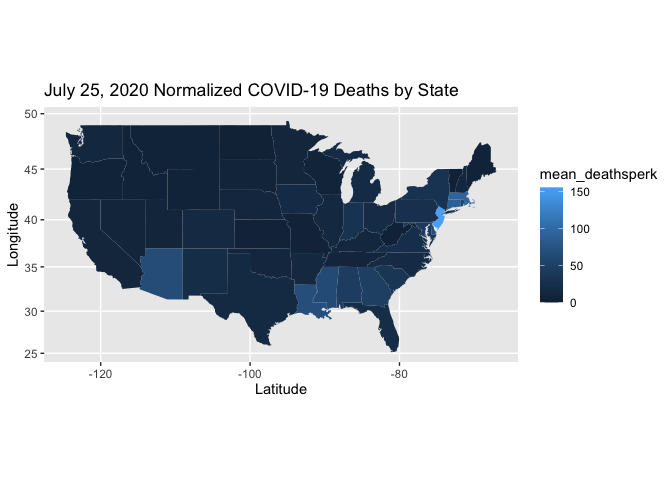
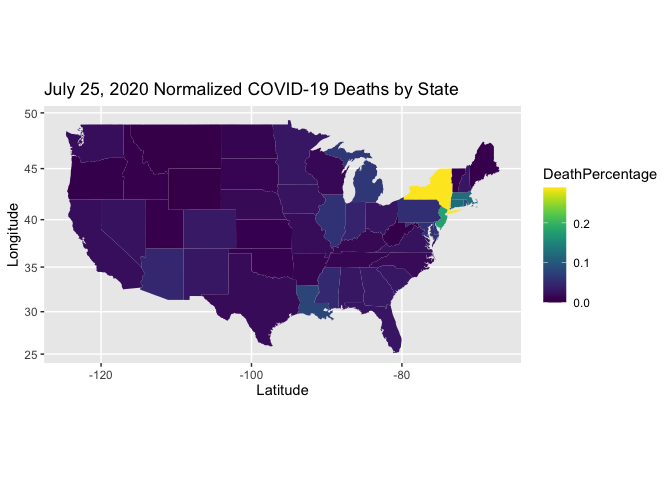
Updated data behind maps

diff --git a/challenges/c06-covid19-assignment.md b/challenges/c06-covid19-assignment.md
@@ -356,7 +356,8 @@ df_data <-
     cases,
     deaths,
     population = `Estimate!!Total`
-  )
+  ) %>%
+  mutate(population = as.double(population))
 df_data
 ```
 
@@ -397,7 +398,6 @@ the columns `cases_perk` and `deaths_perk`.
 df_normalized <-
   df_data %>%
   mutate(
-    population = as.double(population),
     cases_perk = cases/(population/100000),
     deaths_perk = deaths/(population/100000))
 df_normalized
@@ -623,18 +623,20 @@ Questions:
   - Which states have similar curves to one another over time?
   - How do the means and standard deviations vary by state? Can I show
     state means on a map, by color? And show the map for a few different
-    dates to show changes over time?
+    dates to show changes over time? Like maybe 3 months? (Take total
+    number of cases in state, divide by state population.)
 
 <!-- end list -->
 
 ``` r
-# Determine mean for each state on a given day
+# Determine % of population that comes down with COVID or dies on 7/25/20
 df_states_2020_07_25 <-
-  df_normalized %>%
+  df_data %>%
   filter(date == "2020-07-25") %>%
   mutate(region = tolower(state)) %>%
   group_by(region) %>%
-  summarize(mean_casesperk = mean(cases_perk, na.rm = TRUE), mean_deathsperk = mean(deaths_perk, na.rm = TRUE))
+  summarize(cases = sum(cases, na.rm = TRUE), deaths = sum(deaths, na.rm = TRUE), pop = sum(population, na.rm = TRUE)) %>%
+  mutate(CasePercentage = cases/pop*100, DeathPercentage = deaths/pop*100)
 ```
 
     ## `summarise()` ungrouping output (override with `.groups` argument)
@@ -643,19 +645,19 @@ df_states_2020_07_25 <-
 df_states_2020_07_25
 ```
 
-    ## # A tibble: 55 x 3
-    ##    region               mean_casesperk mean_deathsperk
-    ##    <chr>                         <dbl>           <dbl>
-    ##  1 alabama                       1834.          44.3  
-    ##  2 alaska                         608.           0.650
-    ##  3 arizona                       2312.          65.9  
-    ##  4 arkansas                      1207.          14.5  
-    ##  5 california                     819.          10.1  
-    ##  6 colorado                       659.          16.9  
-    ##  7 connecticut                   1015.          89.7  
-    ##  8 delaware                      1617.          65.9  
-    ##  9 district of columbia          1712.          84.9  
-    ## 10 florida                       1729.          21.9  
+    ## # A tibble: 55 x 6
+    ##    region                cases deaths      pop CasePercentage DeathPercentage
+    ##    <chr>                 <dbl>  <dbl>    <dbl>          <dbl>           <dbl>
+    ##  1 alabama               78130   1456  4864680          1.61          0.0299 
+    ##  2 alaska                 2866     18   734634          0.390         0.00245
+    ##  3 arizona              160055   3288  6946685          2.30          0.0473 
+    ##  4 arkansas              37981    399  2990671          1.27          0.0133 
+    ##  5 california           453327   8428 39139822          1.16          0.0215 
+    ##  6 colorado              43847   1795  5529692          0.793         0.0325 
+    ##  7 connecticut           48776   4413  3581504          1.36          0.123  
+    ##  8 delaware              14175    579   949495          1.49          0.0610 
+    ##  9 district of columbia  11717    581   684498          1.71          0.0849 
+    ## 10 florida              414503   5776 20598139          2.01          0.0280 
     ## # … with 45 more rows
 
 ``` r
@@ -675,16 +677,23 @@ us <- map_data("state")
 ```
 
 ``` r
+library(viridis)
+```
+
+    ## Loading required package: viridisLite
+
+``` r
 df_states_2020_07_25 %>%
   ggplot() +
-  geom_map(aes(map_id = region, fill = mean_casesperk), map = us) +
+  geom_map(aes(map_id = region, fill = CasePercentage), map = us) +
   expand_limits(x = us$long, y = us$lat) +
   coord_map() +
   labs(
     title = "July 25, 2020 Normalized COVID-19 Cases by State",
     x = "Latitude",
     y = "Longitude"
-  )
+  ) +
+  scale_fill_viridis()
 ```
 
 ![](c06-covid19-assignment_files/figure-gfm/case_map_7_25-1.png)<!-- -->
@@ -692,14 +701,15 @@ df_states_2020_07_25 %>%
 ``` r
 df_states_2020_07_25 %>%
   ggplot() +
-  geom_map(aes(map_id = region, fill = mean_deathsperk), map = us) +
+  geom_map(aes(map_id = region, fill = DeathPercentage), map = us) +
   expand_limits(x = us$long, y = us$lat) +
   coord_map() +
   labs(
     title = "July 25, 2020 Normalized COVID-19 Deaths by State",
     x = "Latitude",
     y = "Longitude"
-  ) 
+  ) +
+  scale_fill_viridis()
 ```
 
 ![](c06-covid19-assignment_files/figure-gfm/death_map_7_25-1.png)<!-- -->
